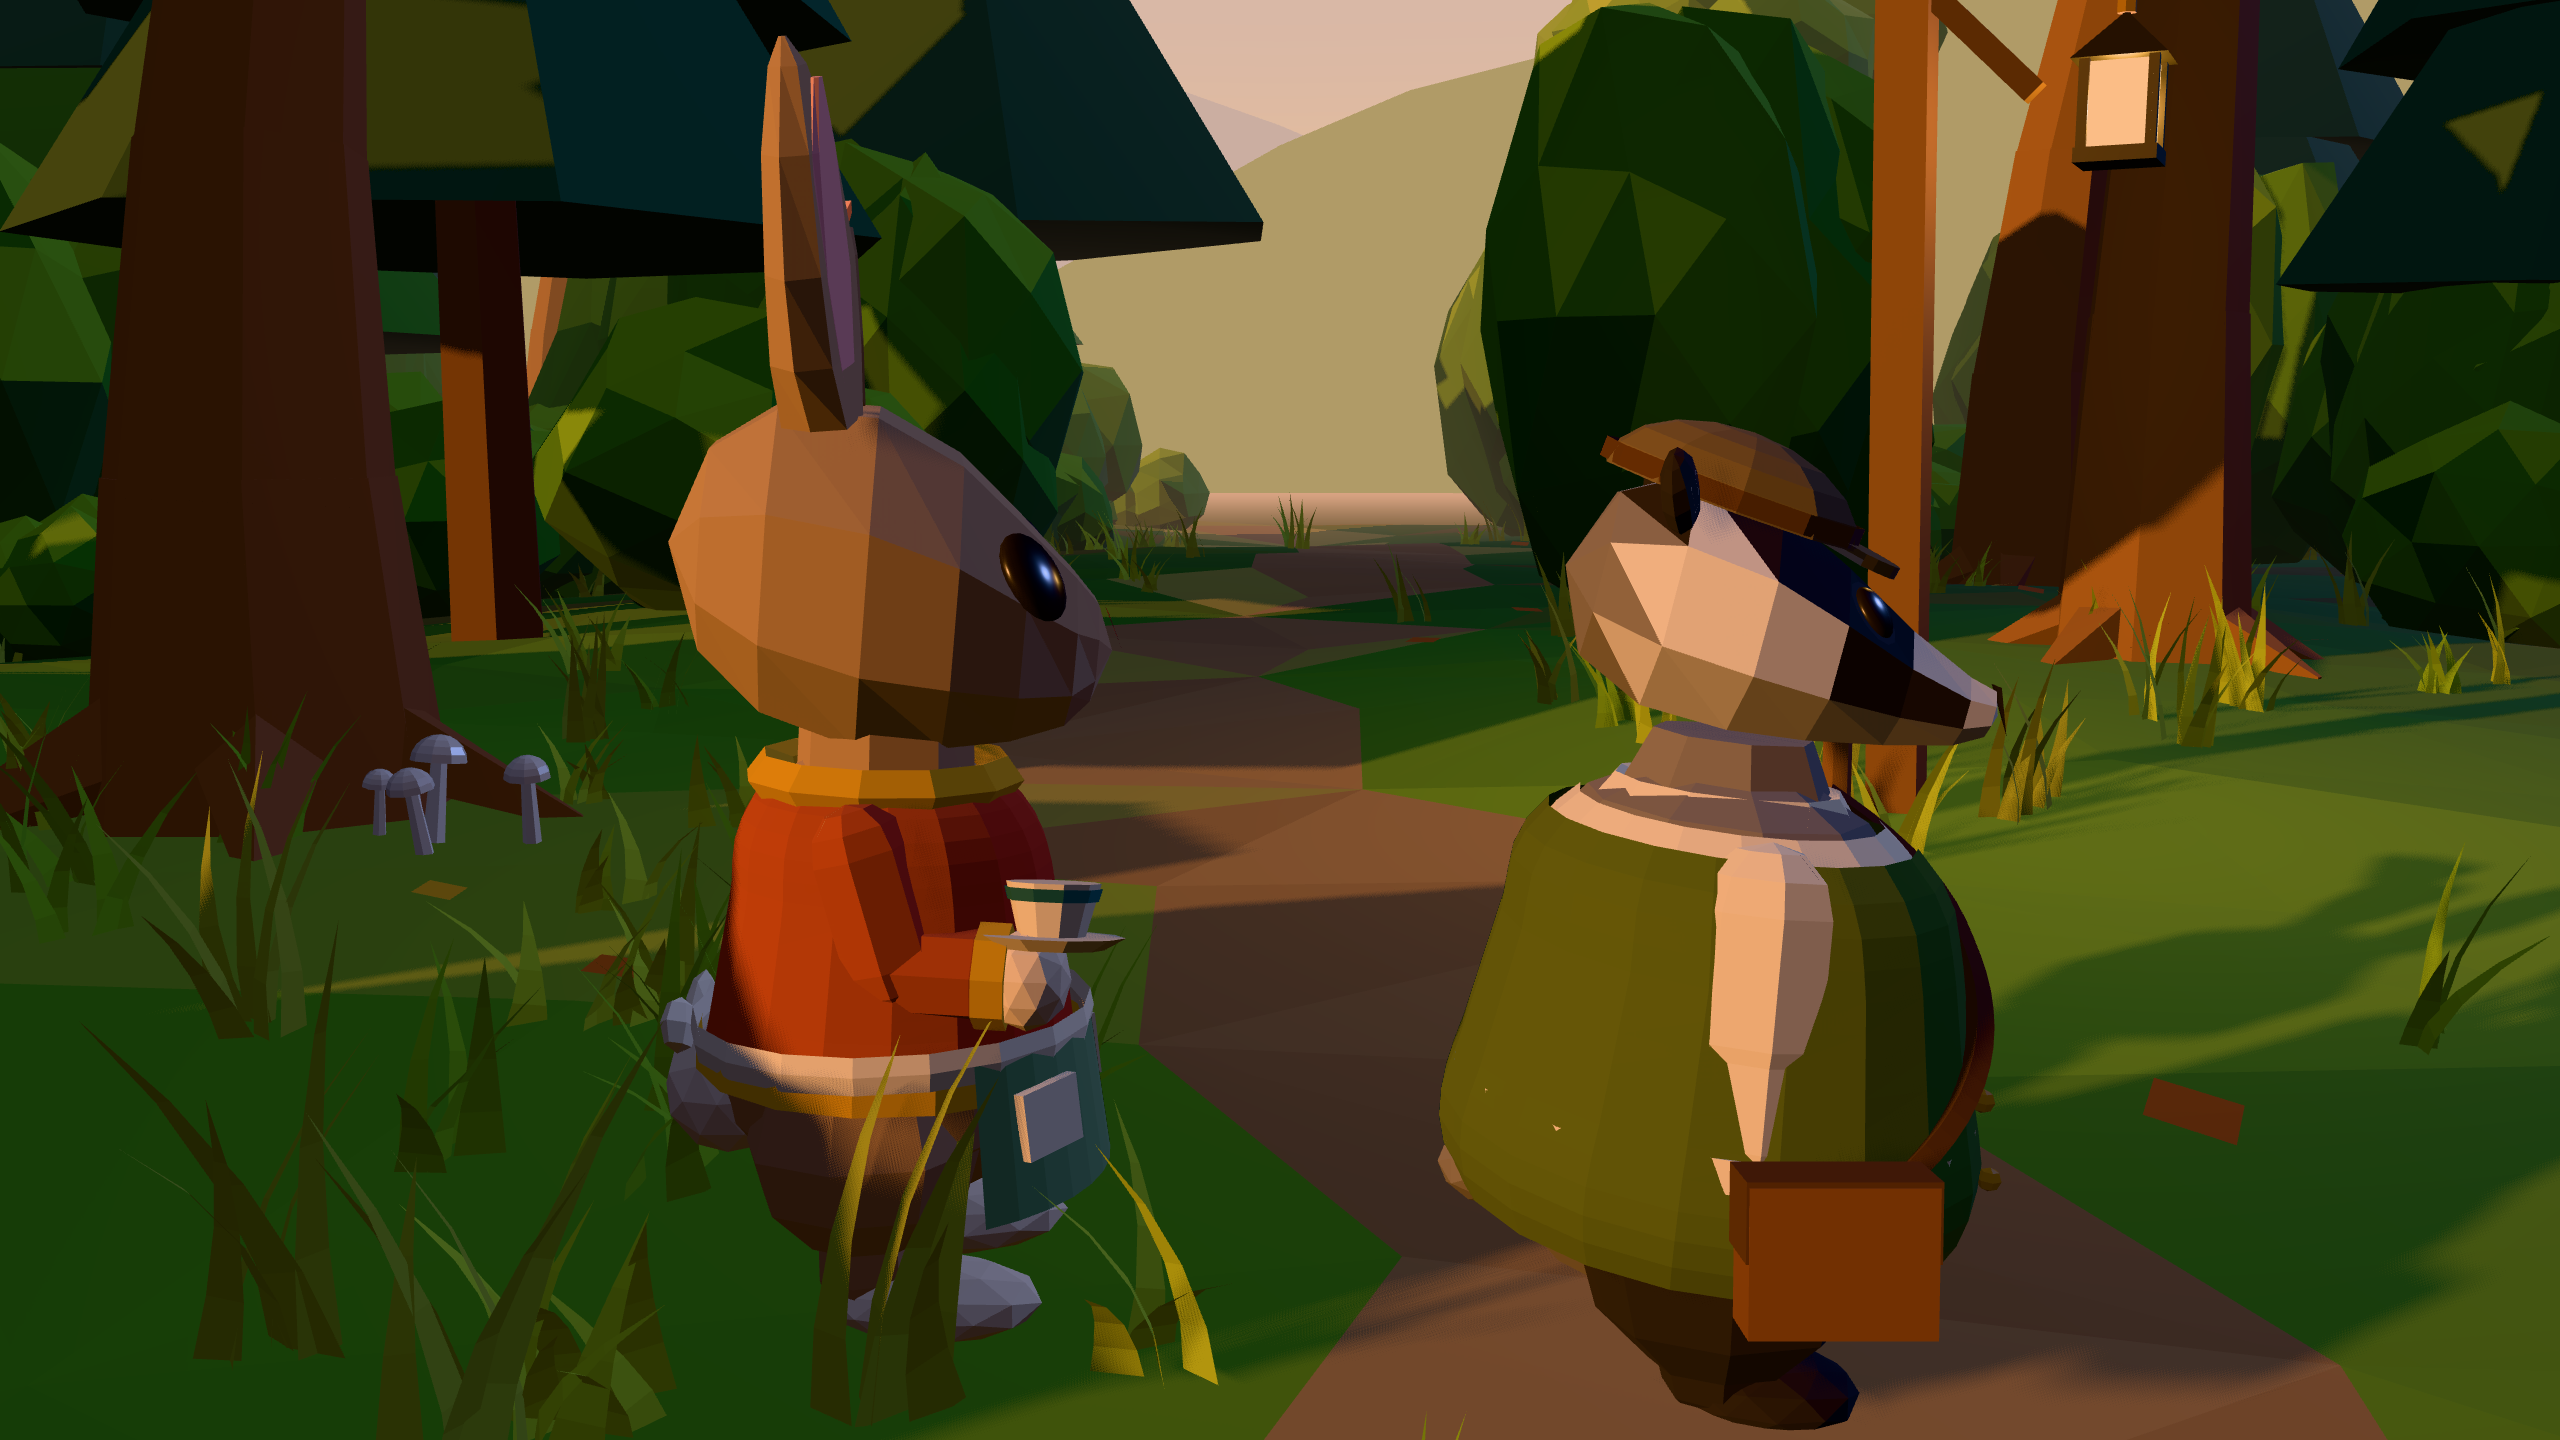
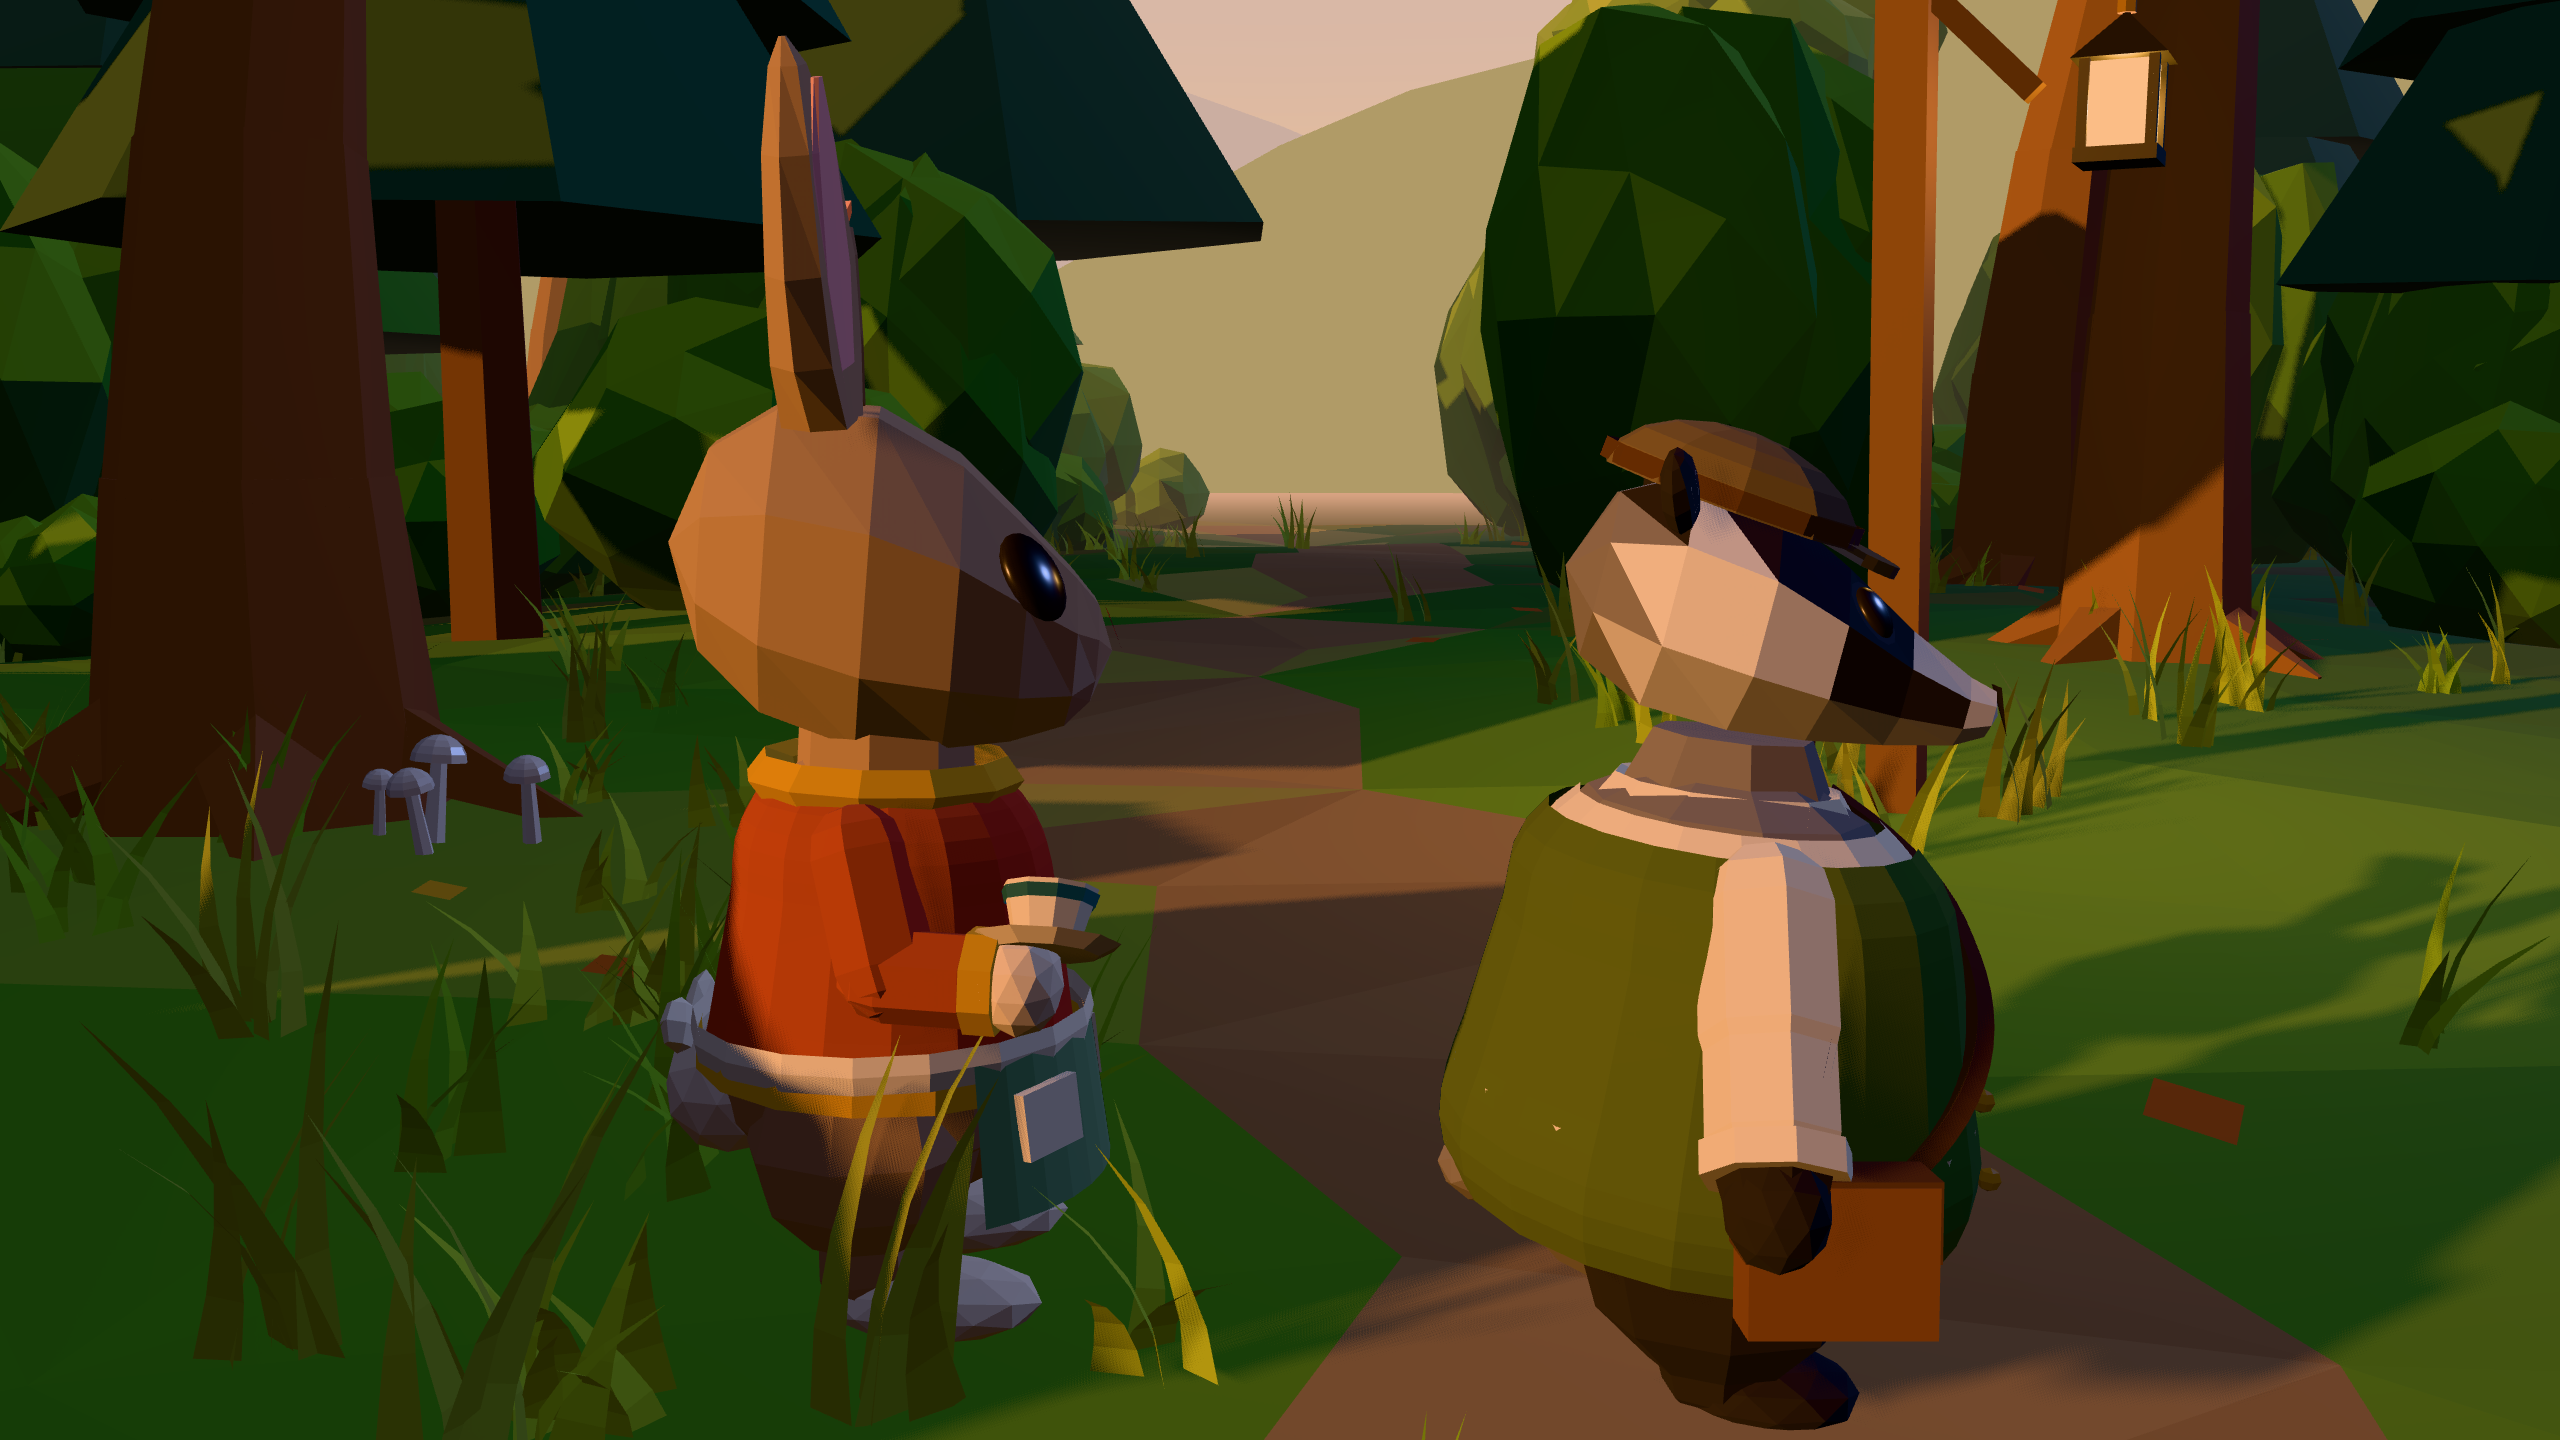
Stage 2 revision: arm clearance, twitchier Clover, exclusive look controls
Claude-Session: https://claude.ai/code/session_01AjNKUmzxLmUDqvxL1cXuoP

diff --git a/src/study/main.ts b/src/study/main.ts
@@ -108,18 +108,6 @@ function row(title: string, ...children: HTMLElement[]): HTMLElement {
   return wrap;
 }
 
-function checkbox(id: string, label: string, key: keyof Omit<MotionToggles, 'intensity'>): HTMLElement {
-  const l = document.createElement('label');
-  l.className = 'check';
-  const c = document.createElement('input');
-  c.type = 'checkbox';
-  c.id = id;
-  c.checked = toggles[key];
-  c.addEventListener('change', () => { toggles[key] = c.checked; });
-  l.append(c, document.createTextNode(label));
-  return l;
-}
-
 function renderPanel(): void {
   panel.replaceChildren();
   const title = document.createElement('p');
@@ -132,12 +120,14 @@ function renderPanel(): void {
   ));
   panel.append(row('View', ...Object.entries(views()).map(([k, v]) => button(v.label, () => setView(k), { 'data-view': k }))));
   if (mode === 'characters') {
-    panel.append(row('Motion',
-      checkbox('m-breathe', 'Breathing', 'breathing'),
-      checkbox('m-look', 'Look around', 'look'),
-      checkbox('m-viewer', 'Look at me', 'lookAtViewer'),
-      checkbox('m-ears', 'Ears & tail', 'earsTail'),
-    ));
+    // Breathing and ear/tail motion always run; looking is one choice of two.
+    panel.append(row('Look', ...(['around', 'viewer'] as const).map((which) =>
+      button(which === 'around' ? 'Look around' : 'Look at me', () => {
+        toggles.look = which === 'around';
+        toggles.lookAtViewer = which === 'viewer';
+        panel.querySelectorAll<HTMLButtonElement>('[data-look]').forEach((b) => b.setAttribute('aria-pressed', String(b.dataset.look === which)));
+      }, { 'data-look': which, 'aria-pressed': String(which === 'viewer' ? toggles.lookAtViewer : !toggles.lookAtViewer) }),
+    )));
     panel.append(row('Gesture', ...animators.map(({ id, animator }) => {
       const r = residents[id];
       const kind = r.id === 'rabbit' ? 'wave' : 'point';
@@ -164,7 +154,7 @@ if (params.get('ui') === '0') panel.remove();
 resize();
 // Gestures requested by URL start once the first frames are on screen.
 const pendingGestures = (params.get('gesture') ?? '').split(',').filter(Boolean);
-if (params.get('look') === 'viewer') toggles.lookAtViewer = true;
+if (params.get('look') === 'viewer') { toggles.lookAtViewer = true; toggles.look = false; }
 if (params.get('still') === '1') { toggles.breathing = false; toggles.look = false; toggles.earsTail = false; }
 
 let frames = 0;

diff --git a/src/builders/animal/build.ts b/src/builders/animal/build.ts
@@ -4,7 +4,7 @@ import { palette } from '../../art/palette';
 import { ball, capsule, lowSphere, cylinder, paintFaces } from '../../art/geometry';
 import { headSection, earSection, loftY, loftZ, ringAt, sliceRings, type Ring } from './loft';
 import type { AccessorySpec, AnimalRig, AnimalSpec, JointName, OutfitSpec, Pose } from './types';
-import { dressTorso, dressArm } from './outfit';
+import { dressTorso, dressArm, torsoRadiiAt, outerLayerAt } from './outfit';
 import { buildAccessory } from './accessories';
 
 /**
@@ -76,7 +76,7 @@ export function buildAnimal(spec: AnimalSpec, outfit: OutfitSpec, accessories: A
     const paw = mesh(ball(1), pawFur, 'paw');
     paw.scale.set(a.paw, a.paw * 1.1, a.paw * 0.9);
     hand.add(paw);
-    shoulder.rotation.z = sx * 0.12;
+    shoulder.rotation.z = sx * restingArmAngle(spec, outfit);
   }
 
   // Legs: a haunch on the hip, short shin, big foot.
@@ -353,4 +353,26 @@ function buildLoftHead(spec: AnimalSpec, head: THREE.Object3D, fur: THREE.Materi
     }
   }
   probe.material.dispose();
+}
+
+/**
+ * Outward angle for a relaxed hanging arm: the smallest splay (at least a natural 0.12 rad)
+ * that keeps the whole arm clear of the torso and whatever is worn over it. Stocky residents
+ * whose bellies are wider than their shoulders get correspondingly more splayed arms.
+ */
+function restingArmAngle(spec: AnimalSpec, outfit: OutfitSpec): number {
+  const b = spec.body;
+  const a = spec.arms;
+  const T = b.torsoLength;
+  const shoulderY = T * 0.77;
+  const shoulderX = b.chestWidth * 0.92;
+  const length = a.upper + a.lower + a.paw;
+  let sin = Math.sin(0.12);
+  for (let i = 1; i <= 12; i++) {
+    const d = (i / 12) * length;
+    const y = shoulderY - d;
+    const need = torsoRadiiAt(spec, y).rx * outerLayerAt(spec, outfit, y) + a.thickness * 1.15;
+    sin = Math.max(sin, (need - shoulderX) / d);
+  }
+  return Math.min(0.6, Math.asin(Math.min(1, sin)));
 }

diff --git a/src/anim/animator.ts b/src/anim/animator.ts
@@ -7,7 +7,8 @@ import type { AnimalRig, JointName } from '../builders/animal/types';
  */
 export interface MotionConfig {
   breath: { perMinute: number; amount: number };
-  look: { maxYaw: number; maxPitch: number; speed: number; idle: number };
+  /** `pace` speeds up idle glances (1 = calm). */
+  look: { maxYaw: number; maxPitch: number; speed: number; idle: number; pace?: number };
   gesture: { kind: 'wave' | 'point'; arm: 'L' | 'R'; duration: number };
   ears?: { twitchesPerMinute: number; amount: number };
   tail?: { wagsPerSecond: number; amount: number };
@@ -98,8 +99,9 @@ export class Animator {
         wantPitch = -Math.atan2(this.tmp2.y, Math.hypot(this.tmp2.x, this.tmp2.z));
       } else {
         // Two slow incommensurate waves give unpredictable but gentle glances.
-        wantYaw = c.look.idle * (Math.sin(now * 0.31 + ph) * 0.7 + Math.sin(now * 0.73 + ph * 2) * 0.3) * 1.6;
-        wantPitch = c.look.idle * 0.3 * Math.sin(now * 0.47 + ph);
+        const p = c.look.pace ?? 1;
+        wantYaw = c.look.idle * (Math.sin(now * 0.31 * p + ph) * 0.7 + Math.sin(now * 0.73 * p + ph * 2) * 0.3) * 1.6;
+        wantPitch = c.look.idle * 0.3 * Math.sin(now * 0.47 * p + ph);
       }
       wantYaw = THREE.MathUtils.clamp(wantYaw, -c.look.maxYaw, c.look.maxYaw);
       wantPitch = THREE.MathUtils.clamp(wantPitch, -c.look.maxPitch, c.look.maxPitch);

diff --git a/src/content/visuals.ts b/src/content/visuals.ts
@@ -56,19 +56,19 @@ export const visuals: Record<string, ResidentVisual> = {
     },
     accessories: [{ kind: 'teacup', hand: 'right', colour: 'clothCream', band: 'clothTeal' }],
     restPose: {
-      shoulderR: [-0.3, 0, 0.1],
+      shoulderR: [-0.3, 0, 0.3],
       elbowR: [-1.25, 0.15, 0],
       handR: [1.55, 0, 0],
       shoulderL: [0.05, 0, 0.05],
       elbowL: [-0.25, 0, 0],
       head: [0.06, 0.18, 0.07],
     },
-    // Quick, light and attentive.
+    // Quick, light and twitchy: darting glances and frequent ear flicks.
     motion: {
-      breath: { perMinute: 24, amount: 1 },
-      look: { maxYaw: 0.85, maxPitch: 0.45, speed: 3.2, idle: 0.35 },
+      breath: { perMinute: 26, amount: 1 },
+      look: { maxYaw: 0.85, maxPitch: 0.45, speed: 6, idle: 0.4, pace: 2.2 },
       gesture: { kind: 'wave', arm: 'L', duration: 2.6 },
-      ears: { twitchesPerMinute: 9, amount: 0.28 },
+      ears: { twitchesPerMinute: 22, amount: 0.34 },
       tail: { wagsPerSecond: 2.2, amount: 0.25 },
     },
   },

diff --git a/src/builders/animal/outfit.ts b/src/builders/animal/outfit.ts
@@ -234,3 +234,17 @@ function cap(spec: AnimalSpec, g: Extract<GarmentSpec, { kind: 'cap' }>, j: Join
   capG.rotation.set(0.12, 0, g.tilt ?? 0);
   j.head.add(capG);
 }
+
+/**
+ * How far the outermost garment stands off the body at height `y` (hips space), as a scale on
+ * the torso radii. Used to keep hanging arms clear of clothing.
+ */
+export function outerLayerAt(spec: AnimalSpec, outfit: OutfitSpec, y: number): number {
+  let layer = 1;
+  for (const g of outfit.garments) {
+    if (g.kind === 'jumper') layer = Math.max(layer, CLOTH_GAP);
+    if (g.kind === 'waistcoat') layer = Math.max(layer, CLOTH_GAP * 1.07);
+    if (g.kind === 'apron' && y < spec.body.torsoLength * 0.22) layer = Math.max(layer, 1.22);
+  }
+  return layer;
+}

diff --git a/docs/character-study.md b/docs/character-study.md
@@ -40,3 +40,14 @@ Motion is reduced by half when the browser requests reduced motion.
 2. Do the clothes and props suggest his trade (an outdoors trail keeper)?
 3. Do the breathing, head turns and gestures feel alive without being busy? Is the speed right for each?
 4. Any clipping you notice where joints or clothing meet during motion?
+
+## Revision 1 (after creator feedback)
+Approved: Badger's design, both outfits, Badger's motion speed, breathing and ear/tail motion.
+
+- **Arm clearance:** relaxed arms now splay outward just enough to clear the widest part of the
+  body and clothing below the shoulder (`restingArmAngle`). Badger's arm no longer sinks into his
+  waistcoat. This applies automatically to every resident.
+- **Clover is twitchier:** ear flicks are about 2.5 times as frequent, glances are quicker and dart
+  more often (`look.pace`), and her breathing is slightly faster.
+- **Controls:** breathing and ear/tail motion always run. Looking is a single choice between
+  "Look around" and "Look at me".
